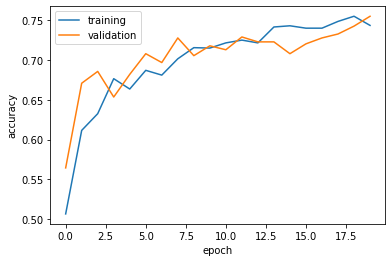
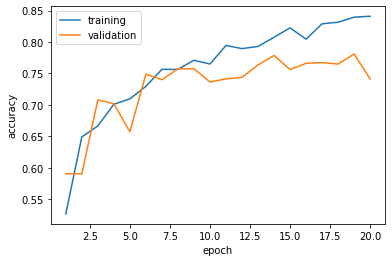
upate

diff --git a/_posts/2022-02-25-blog-post-5.md b/_posts/2022-02-25-blog-post-5.md
@@ -391,9 +391,25 @@ Epoch 20/20
 63/63 [==============================] - 5s 78ms/step - loss: 1.0995 
         - accuracy: 0.6915 - val_loss: 0.8102 - val_accuracy: 0.6795    
 ```
+Make the plot of the history of model2, including the training and validation performance.
 
-I tried some kinds of structures of the model, the training accuray of model2 is worse than model1, but validation accuray is **between 55% to 68%**, a little better than model1.
-On the other hand, I observe overfitting in model2, in Epoch 13/20, the accuracy accuray is 70.54%, but from epoch 14 to 20, the training accuray decrease to 67.95%.
+```python
+plt.plot(history.history["accuracy"], label = "training")
+plt.plot(history.history["val_accuracy"], label = "validation")
+plt.gca().set(xlabel = "epoch", ylabel = "accuracy")
+plt.legend()
+```
+
+![PIC6.png](https://raw.githubusercontent.com/xinyue-lily/xinyue-lily.github.io/master/images/pic6_model2_history.png)
+
+### My observation
+(1) I tried some kinds of structures of the model, some of them performs a little worse than model1.
+
+(2) After several experiments, the validation accuray of the model2 stabilized between **between 51% to 71%** during training, a little better than model1.
+
+(3) The highest validation accuracy is **70.54%**. Compare that to the baseline, I improved 18% of accuracy.
+
+(4) From the plot, I observed overfitting in model2. For example, in Epoch 13/20, the accuracy accuray is the highest of 70.54%, but from epoch 14 to 20, the training accuray decrease to 67.95%.
 
 ## 4.Data Processing
 We can make simple transformations to the input data. The original data has pixels with RGB values between 0 adn 255, we can normalized the value between 0 to 1 or between -1 and 1 in order to train faster. The following code create a preprocessing layer called preprocessor and incorporate the lyaer as the very first layer of model3.
